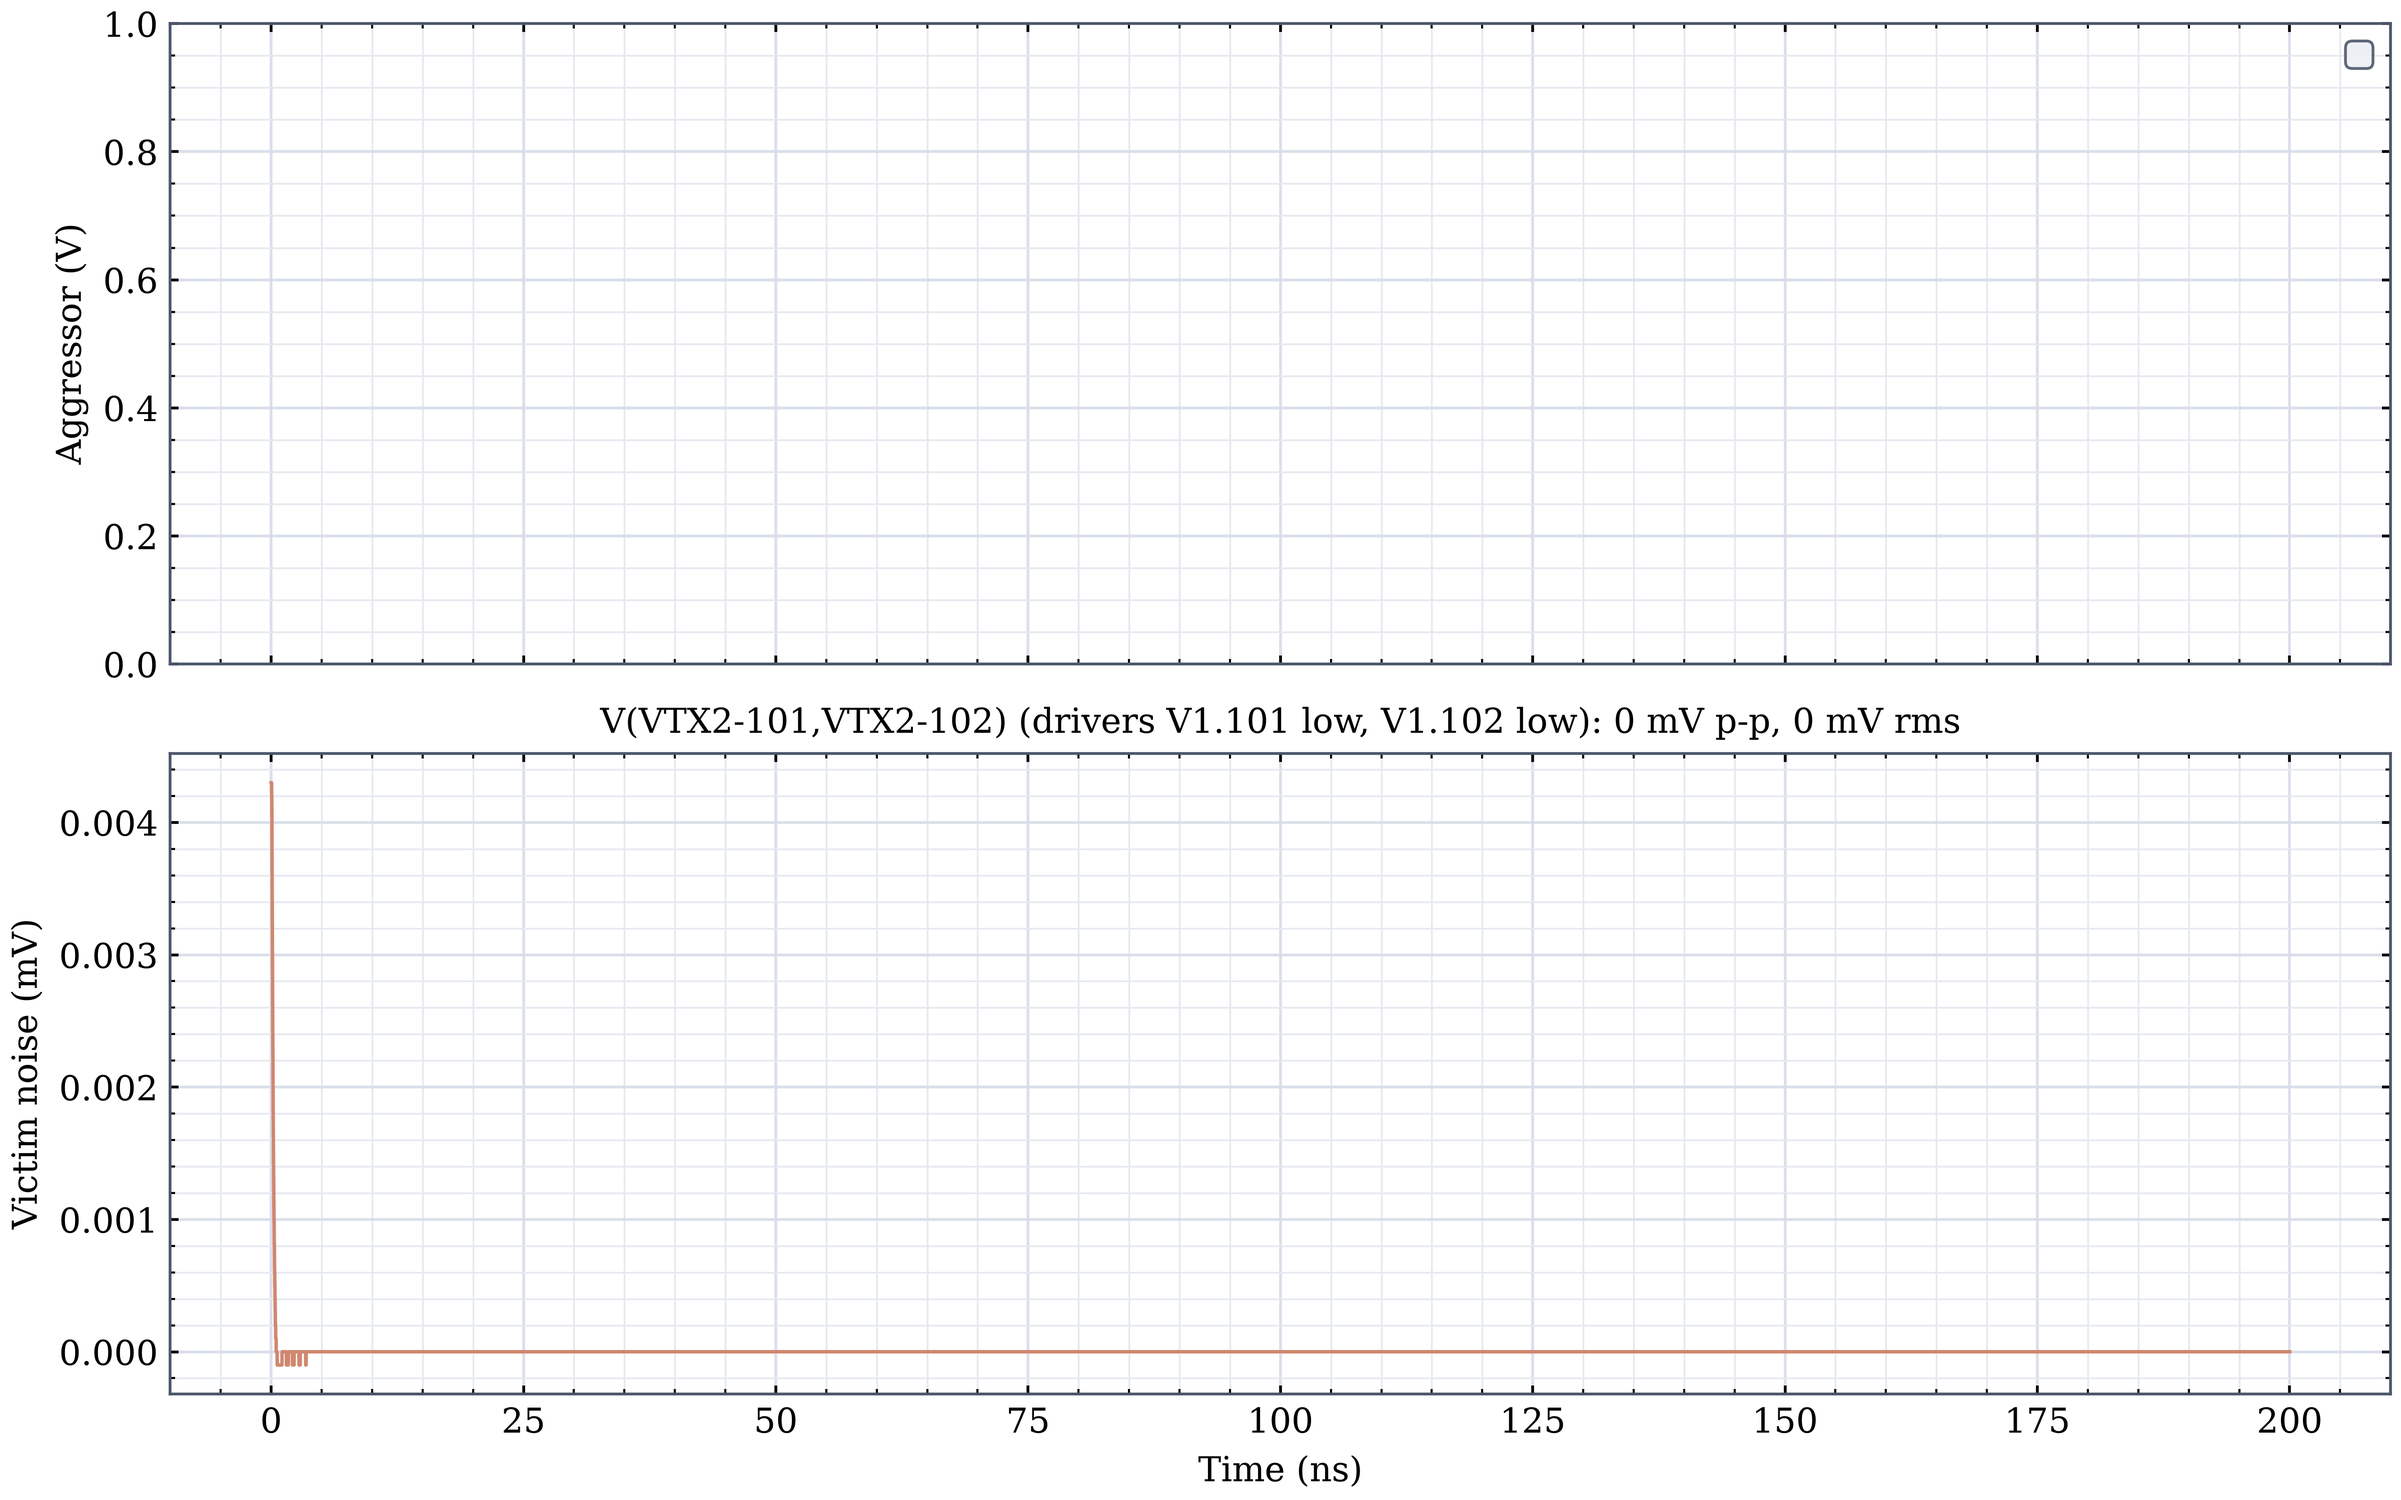
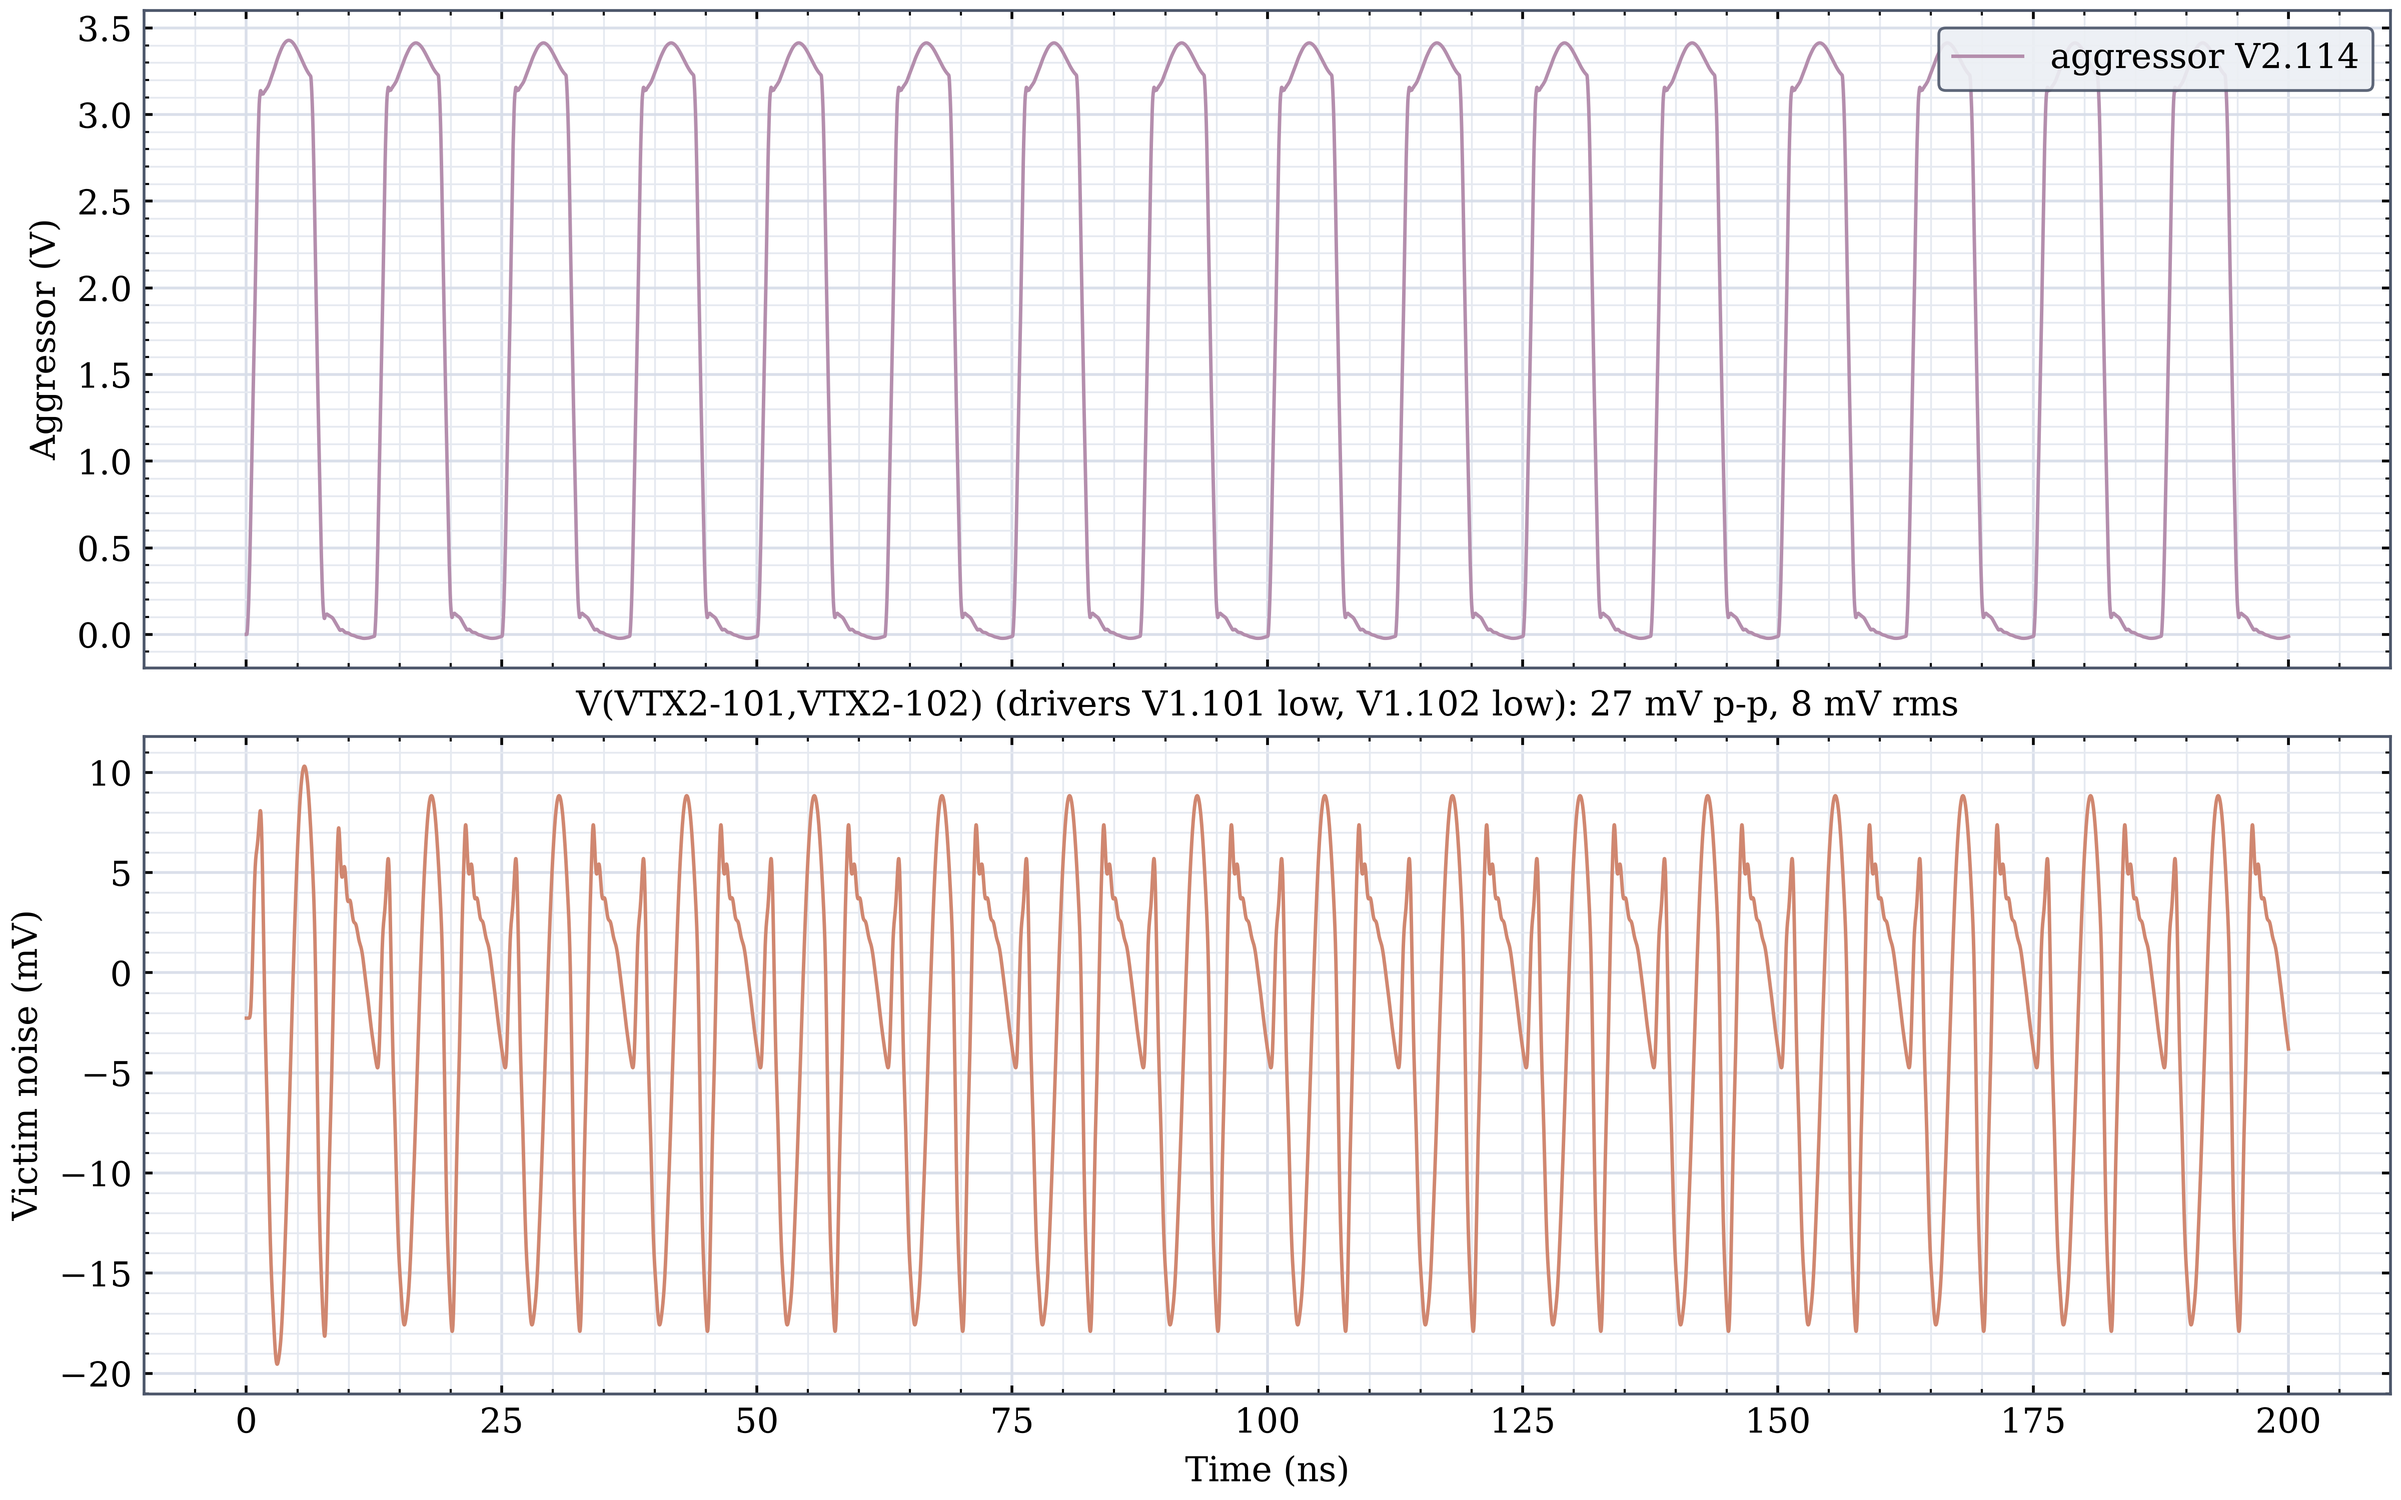
signal integrity: differential waves layz makes from single-ended ones (plots.pair_waves), for CLK and CMD at each chip's receiver input (HyperLynx pairs those pins wrongly)

Changed region(s): [[0.0, 0.0, 1.0, 0.992]]

diff --git a/layz/hyperlynx/plots.py b/layz/hyperlynx/plots.py
@@ -266,10 +266,35 @@ def _plot_loss(maps, out: Path) -> list[Path]:
 
 
 def _diff_waves(run: Path) -> list[dict]:
+    """A run's differential waveforms: the pairs layz made (pair_waves), else HyperLynx's own
+    (named V(A,B)), else every waveform."""
     si = json.loads((run / "si.json").read_text())
+    if si.get("pairs"):
+        return si["pairs"]
     waves = si.get("waves", [])
     diff = [w for w in waves if "," in w["name"]]
     return diff or waves
+
+
+def pair_waves(run: Path, pairs: dict[str, tuple[str, str]]) -> list[dict]:
+    """Differential waveforms of a run made from its single-ended ones, {name: (P wave, N wave)}
+    (HyperLynx's names): P - N, written into the run; from then on they are its differential
+    waveforms (_diff_waves). For pins HyperLynx pairs wrongly or not at all, e.g. a multi-drop
+    net's receivers behind coupling capacitors (their model's input nodes, V(V1_121-Vin_x))."""
+    si = json.loads((run / "si.json").read_text())
+    files = {w["name"]: w["file"] for w in si.get("waves", [])}
+    made = []
+    for name, (p, n) in pairs.items():
+        if p not in files or n not in files:
+            raise SystemExit(f"{run}: no waveform {p if p not in files else n} to pair (has {', '.join(sorted(files))})")
+        tp, vp = wave(run / files[p])
+        tn, vn = wave(run / files[n])
+        f = "pair_" + "".join(c if c.isalnum() or c in "-_" else "_" for c in name) + ".csv"
+        (run / f).write_text("".join(f"{t:.6e},{v:.6e}\n" for t, v in zip(tp, vp - np.interp(tp, tn, vn))))
+        made.append({"name": name, "file": f})
+    si["pairs"] = made
+    (run / "si.json").write_text(json.dumps(si, indent=1))
+    return made
 
 
 def unit_interval(t, v) -> tuple[float, float]:

diff --git a/designs/ivtx_rdl/flow.py b/designs/ivtx_rdl/flow.py
@@ -34,7 +34,7 @@ FAST = {"lib": "fast_drv.sp", "device": "fast_drv", "model": "fast_drv"}  # as t
 RCV = {"lib": "fast_rcv.sp", "device": "Fast_Rcv", "model": "Fast_Rcv"}
 CHIPS = ["V1-", "V2-", "V3-", "V4-"]  # the chips' waveforms (HyperLynx names them V(V1-123,V1-124))
 BUSES = {
-    name: {"driver": [f"VTX2.{pin}", f"VTX2.{pin + 1}"], "chips": [f"V{k}.{pin}" for k in (1, 2, 3, 4)] + [f"V{k}.{pin + 1}" for k in (1, 2, 3, 4)], "far": [f"C{cap}.2", f"C{cap + 1}.2"]}
+    name: {"pin": pin, "driver": [f"VTX2.{pin}", f"VTX2.{pin + 1}"], "chips": [f"V{k}.{pin}" for k in (1, 2, 3, 4)] + [f"V{k}.{pin + 1}" for k in (1, 2, 3, 4)], "far": [f"C{cap}.2", f"C{cap + 1}.2"]}
     for name, pin, cap in (("CLK", 123, 303), ("CMD", 121, 301))
 }
 
@@ -273,6 +273,8 @@ def signal_integrity():
             aggressors=[],
             models={**{pin: dict(FAST, io="output") for pin in b["driver"]}, **{pin: dict(RCV, io="input") for pin in b["chips"]}},
         )
+        # each chip's differential wave at its receiver's input (HyperLynx has no pair of these pins)
+        plots.pair_waves(real, {f"V(V{k}-{b['pin']},V{k}-{b['pin'] + 1})": (f"V(V{k}_{b['pin']}-Vin_x)", f"V(V{k}_{b['pin'] + 1}-Vin_x)") for k in (1, 2, 3, 4)})
         bus_eyes.append(real)
         plots.plot_si([real], out, at=CHIPS, skip_ui=4, centre_window=0.05, edge_levels=(0.2, 0.8), settle=0.1, name=name)
 

diff --git a/test/test_layz.py b/test/test_layz.py
@@ -477,3 +477,21 @@ def test_tdr(tmp_path):
         else:  # once the edge has settled
             assert np.allclose(tr["rho"][tr["t"] > 0.5e-9], -0.999, atol=0.01)
         assert abs(tr["d"][-1] / tr["t"][-1] - 2.998e8 / 2 / 2) < 1e3  # v/2 at er 4
+
+
+def test_pair_waves(tmp_path):
+    """P - N of two single-ended waveforms becomes the run's differential waveform."""
+    import json
+
+    import numpy as np
+
+    from layz.hyperlynx import plots
+
+    t = np.linspace(0, 1e-9, 11)
+    (tmp_path / "p.csv").write_text("".join(f"{a},{b}\n" for a, b in zip(t, 1 + t * 1e9)))
+    (tmp_path / "n.csv").write_text("".join(f"{a},{b}\n" for a, b in zip(t, 1 - t * 1e9)))
+    (tmp_path / "si.json").write_text(json.dumps({"waves": [{"name": "V(A_1-Vin_x)", "file": "p.csv"}, {"name": "V(A_2-Vin_x)", "file": "n.csv"}, {"name": "V(X,Y)", "file": "p.csv"}]}))
+    (made,) = plots.pair_waves(tmp_path, {"V(A-1,A-2)": ("V(A_1-Vin_x)", "V(A_2-Vin_x)")})
+    assert plots._diff_waves(tmp_path) == [made]  # the made pair, not HyperLynx's V(X,Y)
+    _, v = plots.wave(tmp_path / made["file"])
+    assert np.allclose(v, 2 * t * 1e9)
